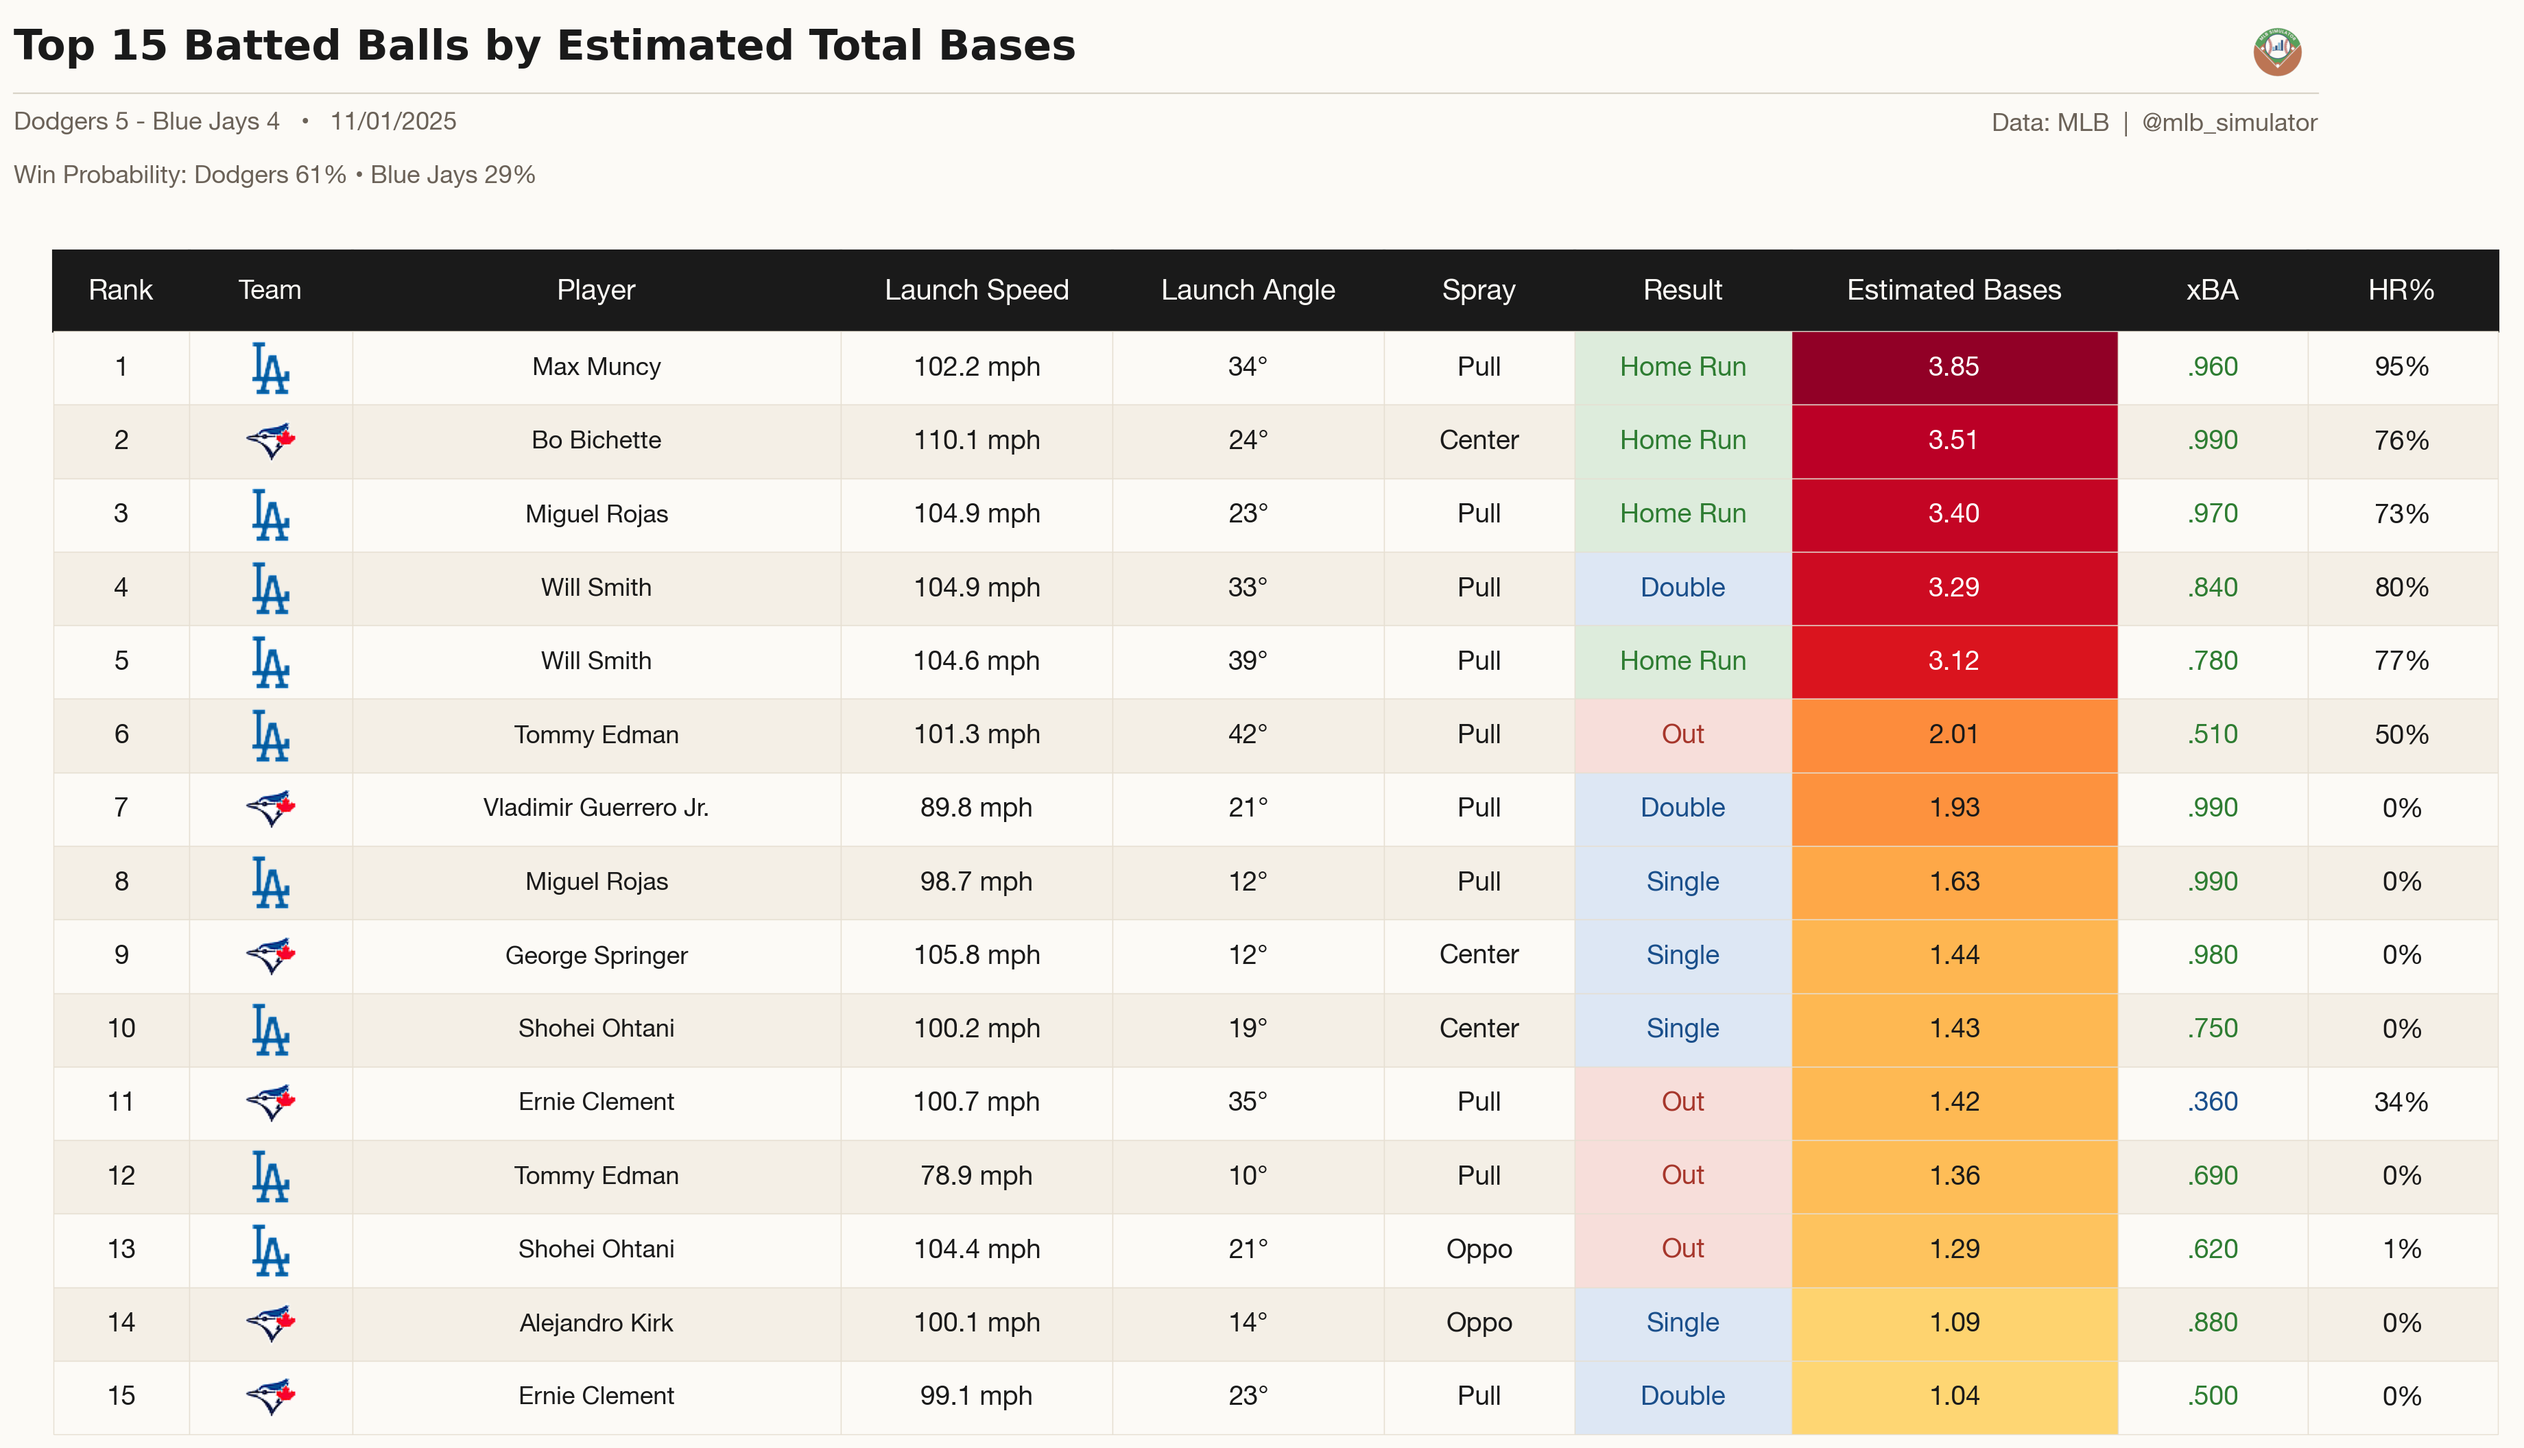
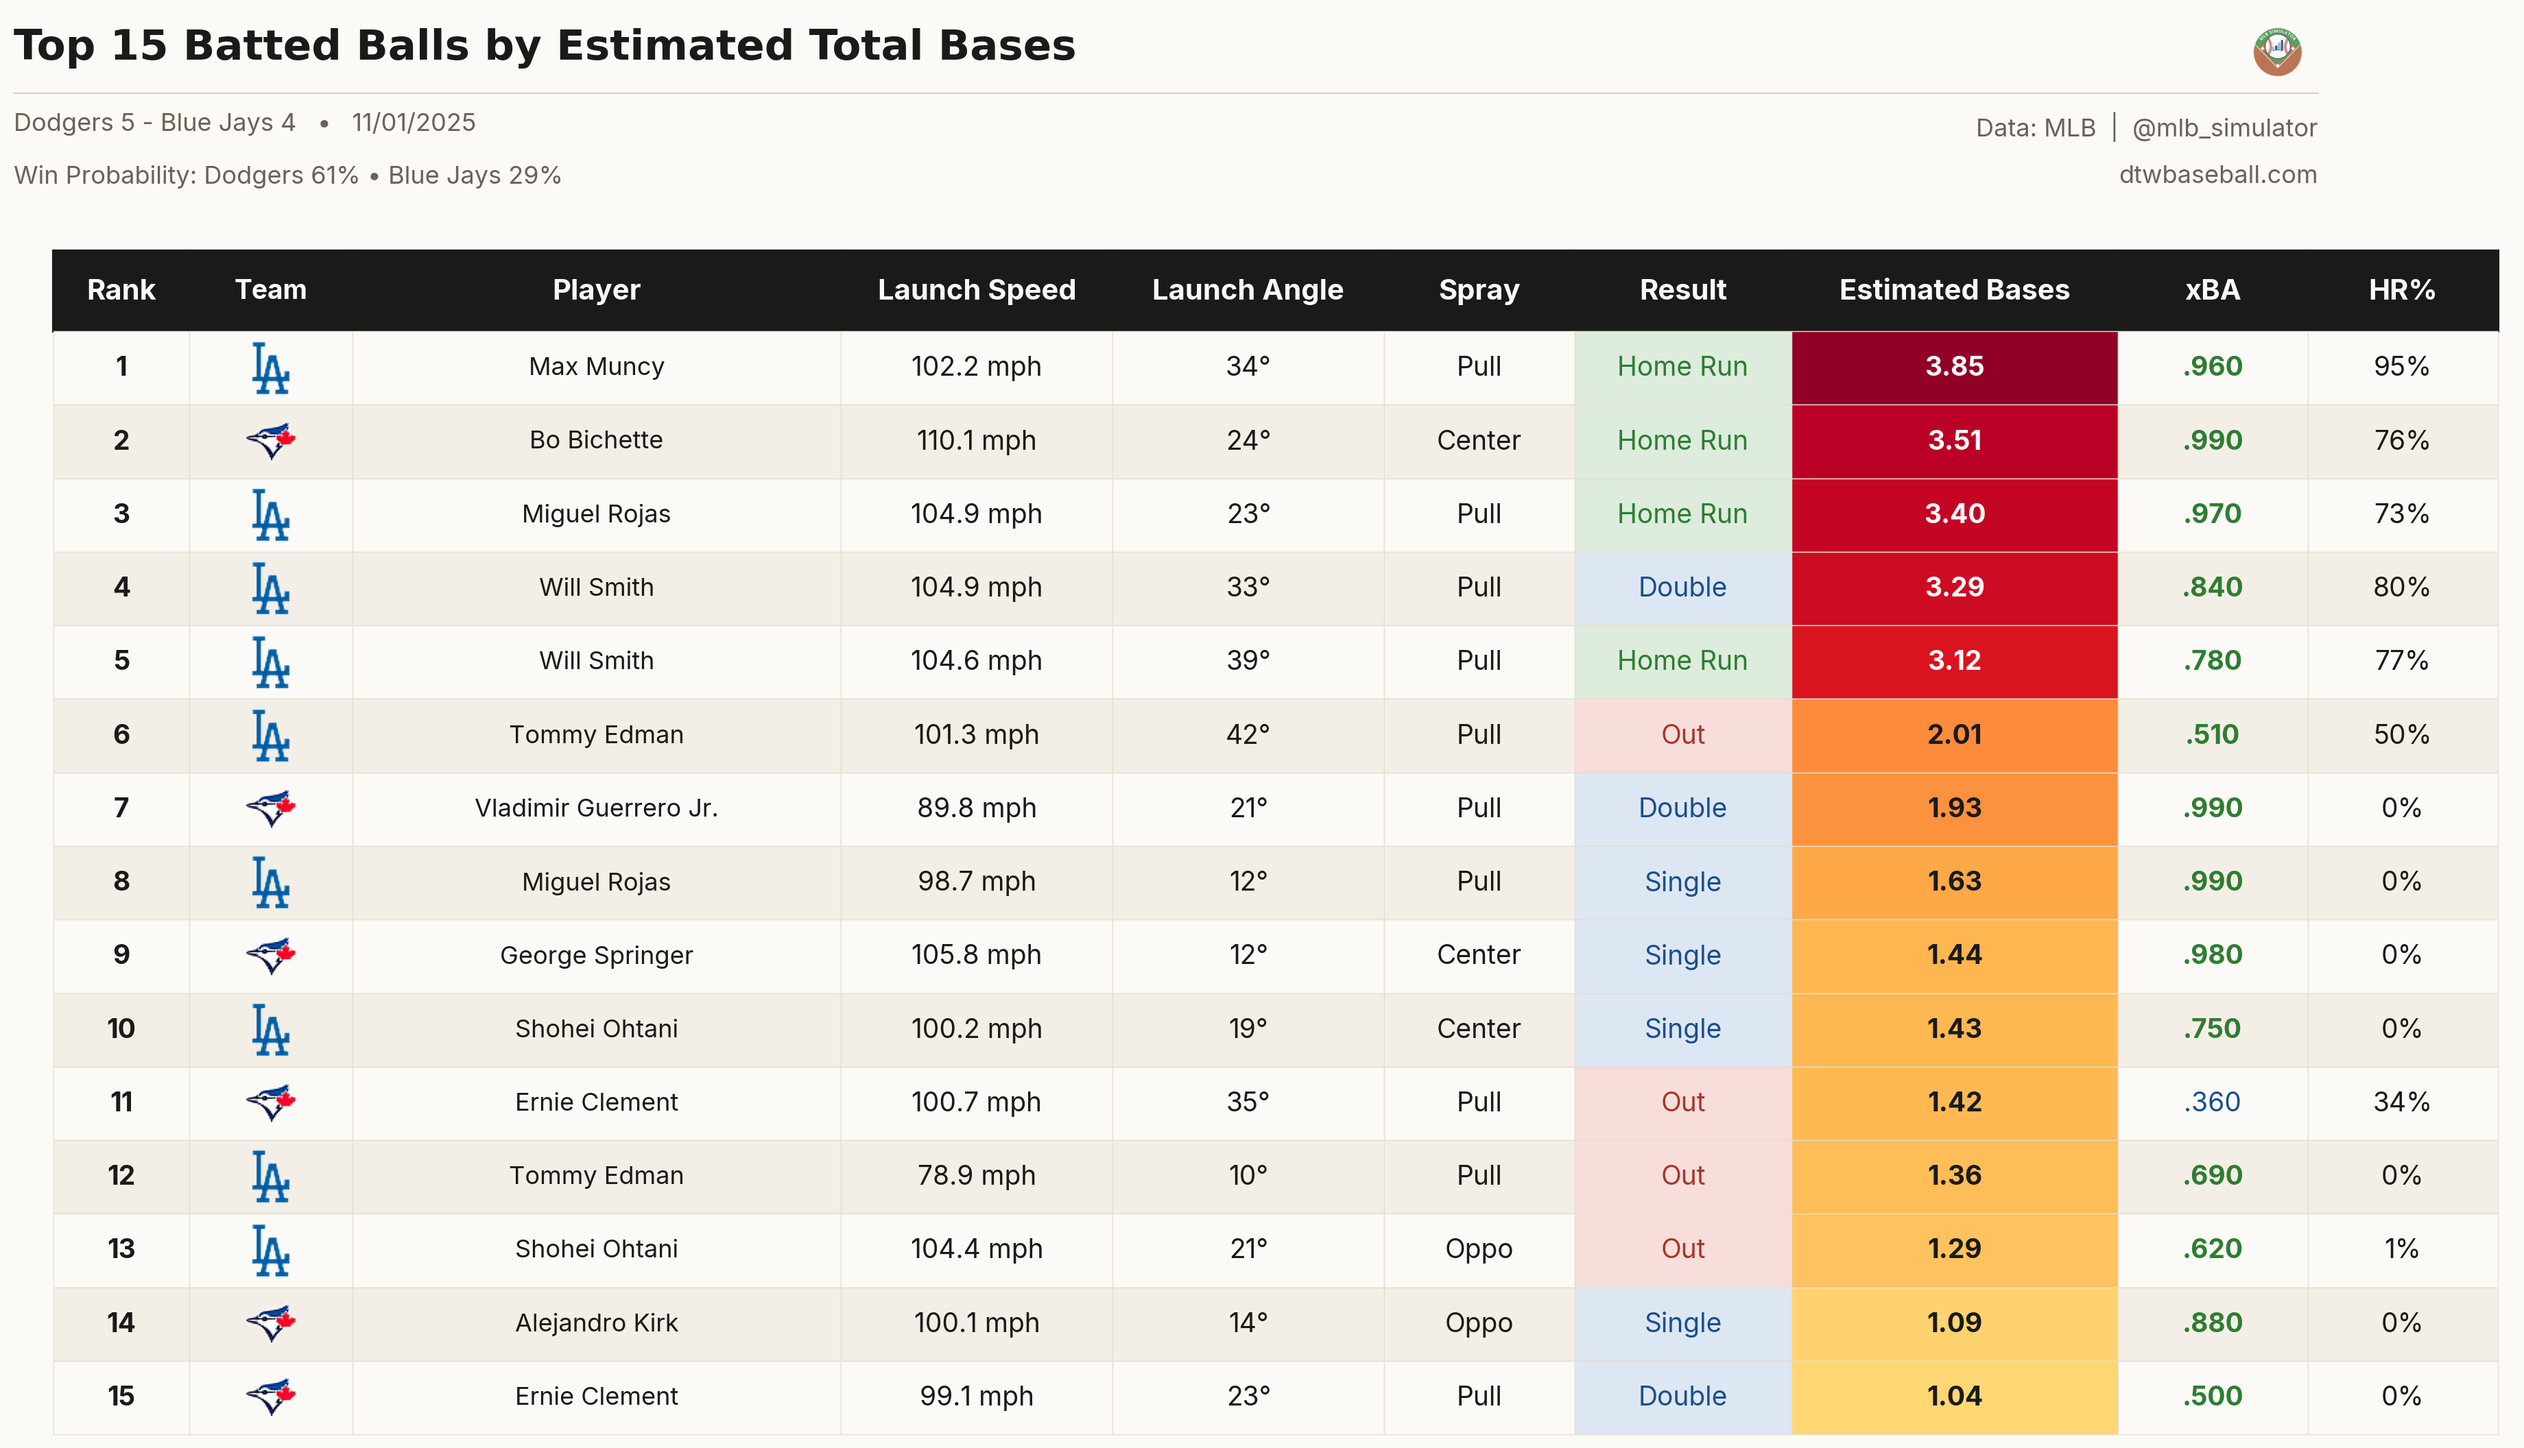
style: dtwbaseball.com line under the strip handle on the four social charts (#31)

diff --git a/Simulator/visualizations.py b/Simulator/visualizations.py
@@ -39,6 +39,8 @@ _LOGO_PATH = os.path.join(os.path.dirname(os.path.abspath(__file__)), 'assets', 
 # The watermark's attribution line. One constant so the string drawn in the
 # title strip and the one the retired chart pastes can never drift apart.
 WATERMARK_HANDLE = 'Data: MLB  |  @mlb_simulator'
+# The site line drawn under the handle on the four social charts.
+WATERMARK_SITE = 'dtwbaseball.com'
 
 # Lazy-loaded caches
 _contour_cache = None
@@ -678,7 +680,8 @@ def run_dist(num_simulations, home_runs_scored, away_runs_scored, home_team, awa
                          f'Distribution of Runs Scored  —  {num_simulations:,} Simulations',
                          subtitle_lines,
                          title_size=20, subtitle_size=11,
-                         logo=_watermark_logo_rgba(), handle=WATERMARK_HANDLE)
+                         logo=_watermark_logo_rgba(), handle=WATERMARK_HANDLE,
+                         site=WATERMARK_SITE)
 
         filepath = _out_path(images_dir, away_team, home_team,
                              away_score, home_score, percentages, 'rd')
@@ -792,7 +795,8 @@ def create_estimated_bases_table(df, away_team, home_team, away_score, home_scor
              f"Win Probability: {away_team} {percentages['away']}% • "
              f"{home_team} {percentages['home']}%"],
             title_size=22, subtitle_size=13,
-            logo=_watermark_logo_rgba(), handle=WATERMARK_HANDLE)
+            logo=_watermark_logo_rgba(), handle=WATERMARK_HANDLE,
+            site=WATERMARK_SITE)
 
         filepath = _out_path(images_dir, away_team, home_team,
                              away_score, home_score, percentages,
@@ -1149,7 +1153,8 @@ def player_contribution_chart(home_outcomes, away_outcomes, home_team, away_team
                                  formatted_date, percentages)
         draw_title_block(tax, 'Player Contributions by Estimated Total Bases',
                          [subtitle], title_size=22, subtitle_size=12,
-                         logo=_watermark_logo_rgba(), handle=WATERMARK_HANDLE)
+                         logo=_watermark_logo_rgba(), handle=WATERMARK_HANDLE,
+                         site=WATERMARK_SITE)
 
         ax_hit.set_title('Hitting  —  Estimated Bases', fontsize=13, fontweight='bold',
                         loc='left', color=PALETTE['text_muted'], pad=8,
@@ -1810,7 +1815,8 @@ def spray_chart(home_outcomes, away_outcomes,
                                  formatted_date, percentages)
         draw_title_block(tax, "Batted Ball Spray Chart", [subtitle],
                          title_size=22, subtitle_size=12,
-                         logo=_watermark_logo_rgba(), handle=WATERMARK_HANDLE)
+                         logo=_watermark_logo_rgba(), handle=WATERMARK_HANDLE,
+                         site=WATERMARK_SITE)
 
         # Continuous Estimated Bases legend — horizontal colorbar inset.
         # Centered at fig x=0.5 in the same vertical band the old discrete

diff --git a/Simulator/style.py b/Simulator/style.py
@@ -189,7 +189,7 @@ def title_axes(fig, *, height_frac=0.14, top_pad=0.015, right_reserve=0.12):
 
 def draw_title_block(ax, title, subtitle_lines=None, *,
                      title_size=20, subtitle_size=11,
-                     rule=True, logo=None, handle=None, logo_pt=30):
+                     rule=True, logo=None, handle=None, site=None, logo_pt=30):
     """Render a 2-row title block inside the strip from ``title_axes()``.
 
     Layout: bold title on row 1, optional thin divider rule, then one or
@@ -200,6 +200,7 @@ def draw_title_block(ax, title, subtitle_lines=None, *,
     inside the strip instead of pasting it onto the saved PNG afterwards.
     The logo is right-aligned on the title row, the handle right-aligned on
     the first subtitle row, and the rule's band between them is left empty.
+    ``site`` (a string) goes right-aligned one subtitle row under the handle.
 
     ``logo_pt`` is the logo's height in *points*, so it renders at the same
     physical size on every chart at a given dpi. Sizing it as a fraction of
@@ -247,6 +248,12 @@ def draw_title_block(ax, title, subtitle_lines=None, *,
                 color=PALETTE['text_muted'],
                 ha='right', va='top',
                 transform=ax.transAxes)
+        if site is not None:
+            ax.text(1.0, cursor_y - 0.30, site,
+                    fontsize=subtitle_size,
+                    color=PALETTE['text_muted'],
+                    ha='right', va='top',
+                    transform=ax.transAxes)
 
     for line in subtitle_lines:
         ax.text(0.0, cursor_y, line,

diff --git a/tests/test_viz_watermark.py b/tests/test_viz_watermark.py
@@ -160,3 +160,26 @@ def test_only_the_retired_chart_still_pastes_the_watermark():
     assert "_apply_watermark" in inspect.getsource(viz.la_ev_graph), (
         "la_ev_graph should keep the PIL watermark paste"
     )
+
+
+def test_site_line_sits_one_subtitle_row_under_the_handle():
+    """``site=`` draws a second right-aligned line directly under the handle.
+
+    Same size and colour as the handle, flush with the strip's right edge,
+    exactly one subtitle row (0.30 of the strip) lower.
+    """
+    handle, site = "Data: MLB  |  @mlb_simulator", "dtwbaseball.com"
+    fig = plt.figure(figsize=(12, 8.5))
+    tax = title_axes(fig, height_frac=0.13, top_pad=0.02)
+    draw_title_block(tax, "Distribution of Runs Scored", ["Subtitle line one"],
+                     title_size=20, subtitle_size=11,
+                     logo=_fake_logo(), handle=handle, site=site, logo_pt=LOGO_PT)
+    try:
+        h = _handle_text(tax, handle)
+        s = _handle_text(tax, site)
+        assert s.get_position() == (1.0, h.get_position()[1] - 0.30)
+        assert s.get_ha() == "right" and s.get_va() == "top"
+        assert s.get_fontsize() == h.get_fontsize()
+        assert s.get_color() == h.get_color()
+    finally:
+        plt.close(fig)
